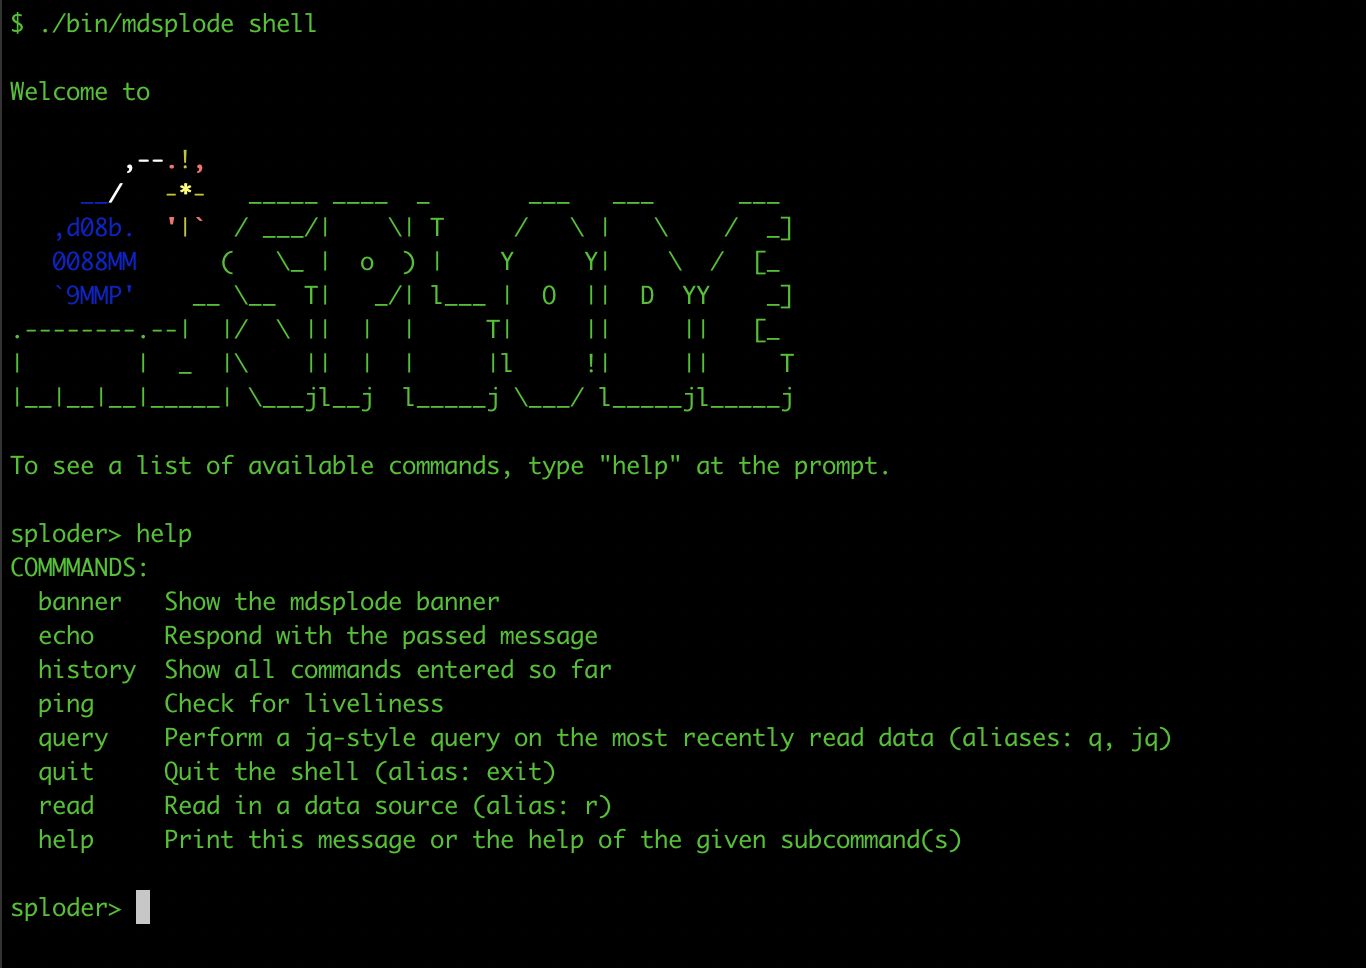
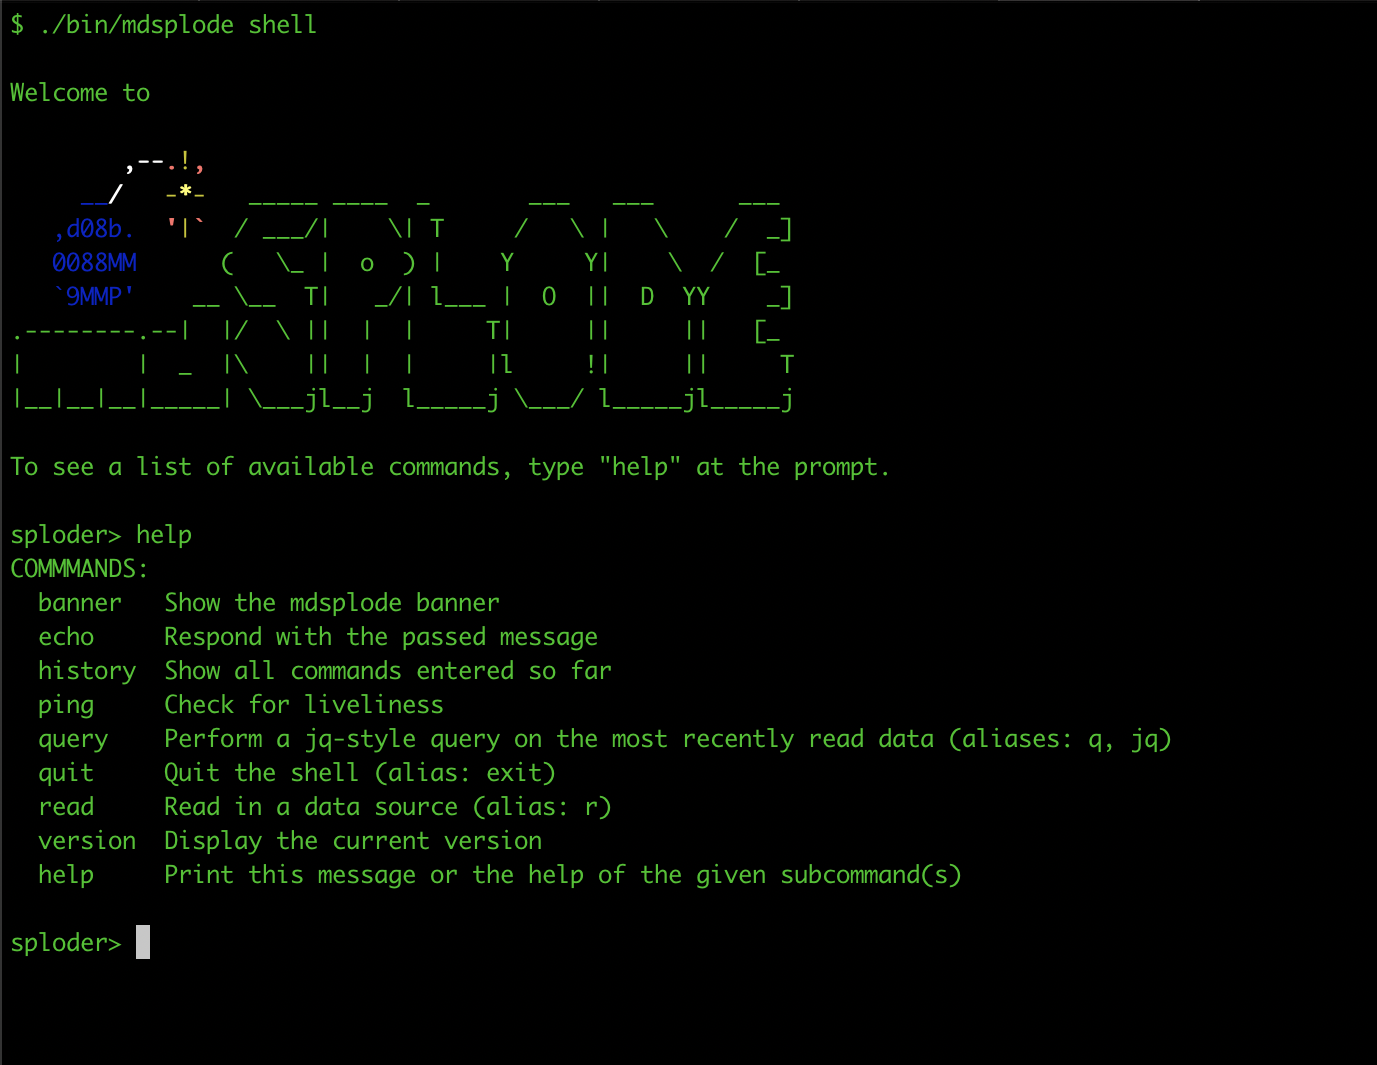
Added version command.

diff --git a/src/shell/cmd/mod.rs b/src/shell/cmd/mod.rs
@@ -18,6 +18,7 @@ pub fn dispatch(state: State, line: &str) -> Result<State, String> {
         Some(("query", matches)) => handler::query(state.clone(), matches),
         Some(("quit", matches)) => handler::quit(state.clone(), matches),
         Some(("read", matches)) => handler::read(state.clone(), matches),
+        Some(("version", matches)) => handler::version(state.clone(), matches),
         Some((name, _matches)) => unimplemented!("{name}"),
         None => unreachable!("subcommand required"),
     }
@@ -104,5 +105,11 @@ fn cmd() -> Command {
                         .help_template(USAGE_TEMPLATE)
                         .arg(Arg::new("filename")),
                 ),
+        )
+        .subcommand(
+            Command::new("version")
+                .alias("ver")
+                .about("Display the current version")
+                .help_template(USAGE_TEMPLATE),
         )
 }

diff --git a/src/shell/cmd/handler.rs b/src/shell/cmd/handler.rs
@@ -1,5 +1,6 @@
 use clap::parser::ArgMatches;
 
+use crate as mdsplode;
 use crate::shell::state::State;
 use crate::shell::writer;
 
@@ -39,6 +40,10 @@ pub fn quit(mut state: State, _matches: &ArgMatches) -> Result<State, String> {
 
 pub fn read(state: State, _matches: &ArgMatches) -> Result<State, String> {
     writer::msg(state, "TBD")
+}
+
+pub fn version(state: State, _matches: &ArgMatches) -> Result<State, String> {
+    writer::msg(state, mdsplode::version().to_string().as_str())
 }
 
 // Private functions
